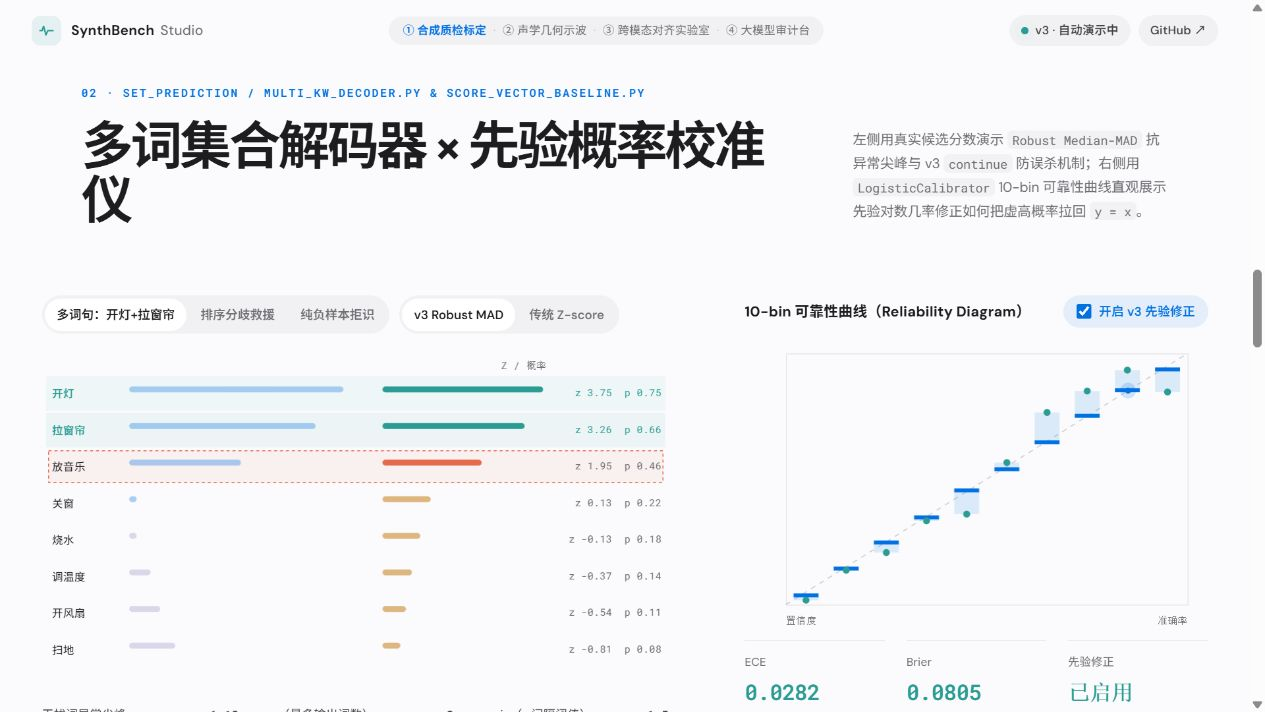
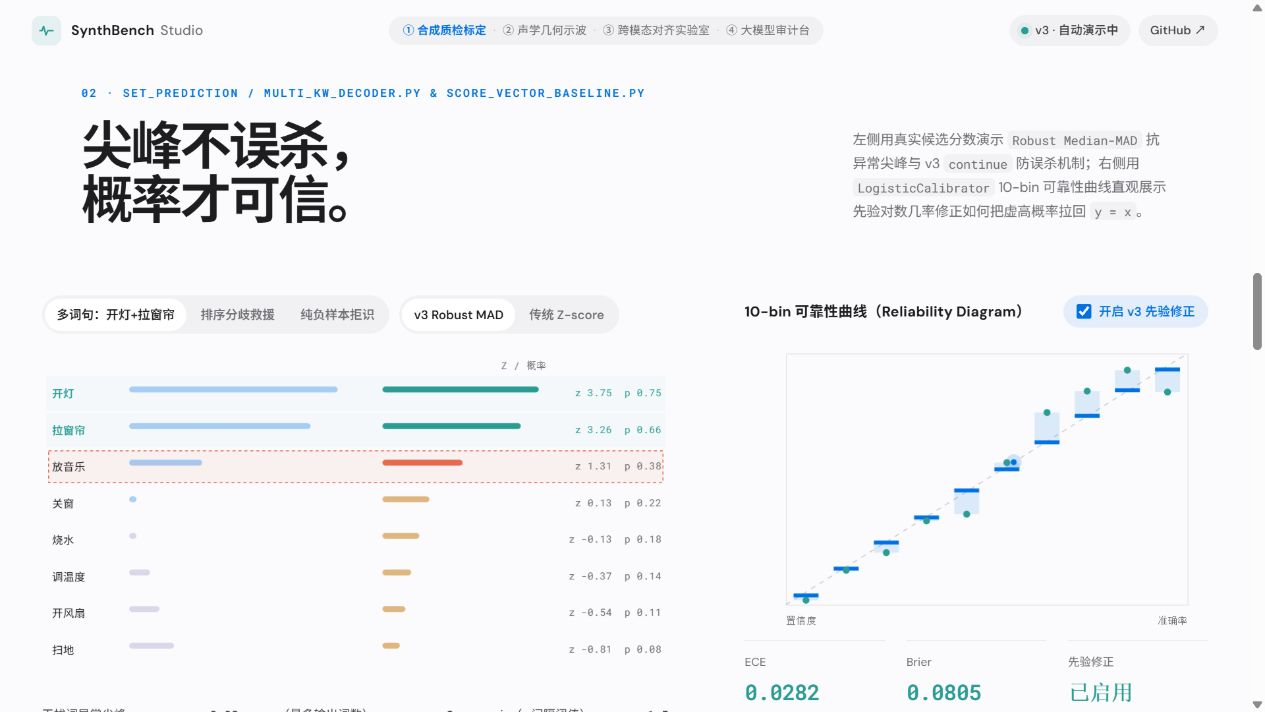
copy(studio): tighten section headlines

diff --git a/studio/index.html b/studio/index.html
@@ -49,7 +49,7 @@
     <section class="hero hero--story" data-reveal="hero" aria-labelledby="hero-title">
       <div class="hero__center">
         <p class="eyebrow">WU-SPEECH-SYNTHBENCH V3 · QA &amp; CALIBRATION STUDIO</p>
-        <h1 id="hero-title">拒绝虚高指标，<br /><span>把五个隐藏工程坑摆上台面。</span></h1>
+        <h1 id="hero-title">评测不注水，<br /><span>分数才可信。</span></h1>
         <p class="hero__lede">
           低资源方言语音评测里最难察觉的五个坑——静音稀释能量谷、高频清擦音漏切、先验概率失校准、多区间匹配刷分、硬负样本词表泄漏——全部做成全仓纯 NumPy、零后端、可在浏览器里亲手拖动的白盒标定台。
         </p>
@@ -91,7 +91,7 @@
       <div class="module__head">
         <div class="module__title-group">
           <p class="module__kicker">01 · AUTO_TIMESTAMP / ENERGY_VALLEY.PY</p>
-          <h2 class="module__title">信号级「能量谷」切字显微镜</h2>
+          <h2 class="module__title">锚点不漂移，<br />切字才精准。</h2>
         </div>
         <div class="module__side">
           <p class="module__desc">
@@ -185,7 +185,7 @@
       <div class="module__head">
         <div class="module__title-group">
           <p class="module__kicker">02 · SET_PREDICTION / MULTI_KW_DECODER.PY &amp; SCORE_VECTOR_BASELINE.PY</p>
-          <h2 class="module__title">多词集合解码器 × 先验概率校准仪</h2>
+          <h2 class="module__title">尖峰不误杀，<br />概率才可信。</h2>
         </div>
         <div class="module__side">
           <p class="module__desc">
@@ -262,7 +262,7 @@
       <div class="module__head">
         <div class="module__title-group">
           <p class="module__kicker">03 · EVAL_METRICS / LOCALISATION.PY &amp; RANKING.PY</p>
-          <h2 class="module__title">评测「测谎仪」：匈牙利多区间匹配 × 防刷分透视镜</h2>
+          <h2 class="module__title">重叠不放过，<br />指标才诚实。</h2>
         </div>
         <div class="module__side">
           <p class="module__desc">
@@ -315,7 +315,7 @@
       <div class="module__head">
         <div class="module__title-group">
           <p class="module__kicker">04 · SYNTH_PIPELINE / MANIFEST.PY</p>
-          <h2 class="module__title">语料规划沙盘：三位置平衡棋盘 × 泄漏 X 光扫描器</h2>
+          <h2 class="module__title">泄漏先拦住，<br />语料才干净。</h2>
         </div>
         <div class="module__side">
           <p class="module__desc">
